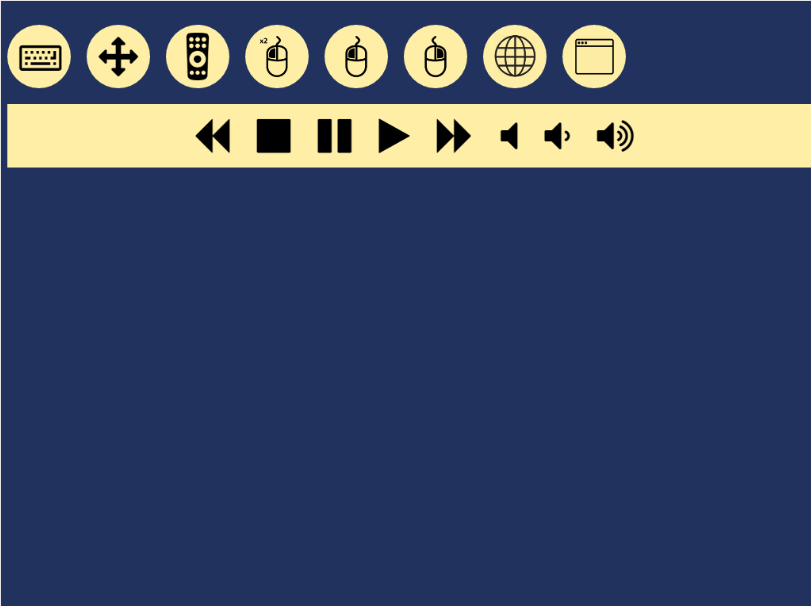
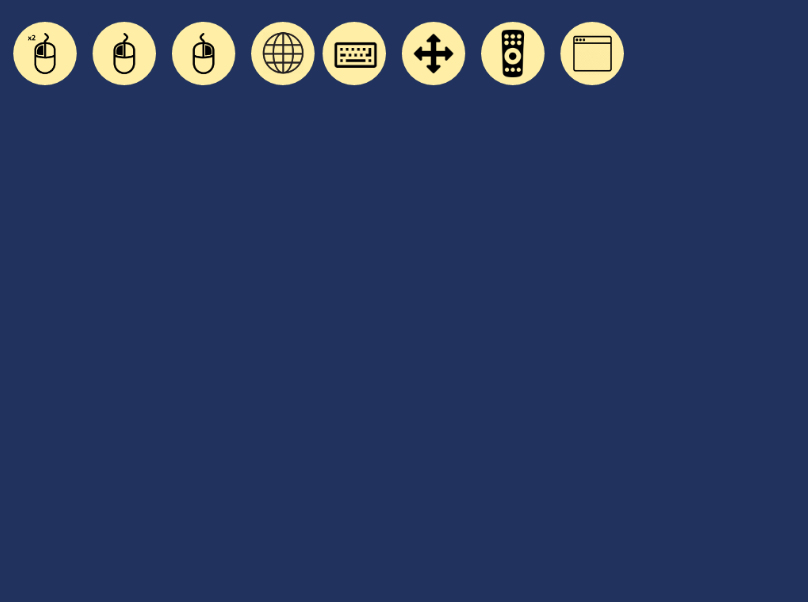
final touches

Changed region(s): [[0.0, 0.0299, 1.0, 0.299]]

diff --git a/app.js b/app.js
@@ -6,7 +6,6 @@ const fs = require('fs');
 
 const configuration = JSON.parse(fs.readFileSync('configuration.json', 'utf8'));
 
-/* Configuration */
 const port = configuration.port;
 const browserPath = configuration.browserPath;
 
@@ -17,10 +16,7 @@ const keyboard = require('./keyboard');
 const rootPath = 'wepapp/';
 const imgPath = 'img/';
 
-
 const stripFileName = (path, fileDirectory) => {
-
-    console.log(path);
 
     var splitted = path.split('/');
     var filepath = rootPath + (fileDirectory || '') + splitted[splitted.length - 1]; // to prevent relative path
@@ -35,25 +31,47 @@ const launchApp = (command, args) => {
     spawn(command, args);
 };
 
+const logAction = (action) => {
+    
+    if (configuration.logActions) {
+        console.log(action);
+    }
+};
+
+const logRequests = (req) => {
+
+    if (configuration.logRequests) {
+        console.log(req);
+    }
+};
+
+const sendFileOptions = { root: __dirname + '/' };
+
+console.log(JSON.stringify(configuration) + '\n');
+
 app.get('/', function (req, res) {
-    console.log(req.path);
-    res.sendfile(rootPath + 'index.html');
+    logRequests(req.path);
+    res.sendFile(rootPath + 'index.html', sendFileOptions);
 });
 
-app.get('/node_modules/angular/angular.js', function(req, res) {
-    res.sendfile('node_modules/angular/angular.js');
+app.get('/node_modules/angular/angular.js', function (req, res) {
+    logRequests(req.path);
+    res.sendFile('node_modules/angular/angular.js', sendFileOptions);
 });
 
 app.get('/*.js', (req, res) => {
-    res.sendfile(stripFileName(req.path));
+    logRequests(req.path);
+    res.sendFile(stripFileName(req.path), sendFileOptions);
 });
 
 app.get('/*.css', function (req, res) {
-    res.sendfile(stripFileName(req.path));
+    logRequests(req.path);
+    res.sendFile(stripFileName(req.path), sendFileOptions);
 });
 
 app.get('/img/*.png', function (req, res) {
-    res.sendfile(stripFileName(req.path, imgPath));
+    logRequests(req.path);
+    res.sendFile(stripFileName(req.path, imgPath), sendFileOptions);
 });
 
 io.on('connection', (socket) => {
@@ -61,35 +79,55 @@ io.on('connection', (socket) => {
     console.log('client connected');
 
     socket.on('mouseMove', (point) => {
-        console.log(point);
+        logAction(point);
         mouse.moveBy(point.x, point.y);
     });
 
     socket.on('media', (key) => {
-        console.log(key);
+        logAction(key);
         media[key]();
     });
 
     socket.on('keyPress', (key) => {
+        logAction('keyPress');
         keyboard.keyPress(key);
     });
 
-    socket.on('changeLanguageWindows', keyboard.changeLanguageWindows);
+    socket.on('changeLanguageWindows', () => {
 
-    socket.on('mouseClick', mouse.click);
-    socket.on('mouseDoubleClick', mouse.doubleClick);
-    socket.on('mouseRightClick', mouse.rightClick);
+        logAction('changeLanguageWindows');
+        keyboard.changeLanguageWindows();
+    });
+
+    socket.on('mouseClick', () => {
+
+        logAction('mouseClick');
+        mouse.click();
+    });
+
+    socket.on('mouseDoubleClick', () => {
+
+        logAction('mouseDoubleClick');
+        mouse.doubleClick();
+    });
+
+    socket.on('mouseRightClick', () => {
+
+        logAction('mouseRightClick');
+        mouse.rightClick();
+    });
 
     socket.on('kodi', () => {
         launchApp('C:/Program Files (x86)/Kodi/Kodi.exe');
     });
 
     socket.on('youtube', () => {
-        console.log('youtube');
+        logAction('youtube');
         launchApp(browserPath, 'http://youtube.com');
     });
 
     socket.on('ynet', () => {
+        logAction('ynet');
         launchApp(browserPath, 'http://ynet.co.il');
     });
 });

diff --git a/wepapp/index.html b/wepapp/index.html
@@ -13,6 +13,18 @@
     <div>
         <textarea id="keyboard-input"  onkeyup="onKeyUp(event);" rows="4"></textarea>
         <div class="row">
+            <div class="pull-left fab-icon inline yellow">
+                <img src="img/doubleMouse.png" alt="" class="img-icon" onclick="emit(event, 'mouseDoubleClick')" />
+            </div>
+            <div class="pull-left fab-icon inline yellow">
+                <img src="img/leftMouse.png" alt="" class="img-icon" onclick="emit(event, 'mouseClick')" />
+            </div>
+            <div class="pull-left fab-icon inline yellow">
+                <img src="img/rightMouse.png" alt="" class="img-icon" onclick="emit(event, 'mouseRightClick')" />
+            </div>
+            <div class="pull-left fab-icon inline yellow">
+                <img src="img/language.png" alt="" class="img-icon" onclick="emit(event, 'changeLanguageWindows')" />
+            </div>
             <div class="no-margin pull-left fab-icon inline yellow small-right">
                 <i class="fa fa-keyboard-o" onclick="keyboardClick(event)"></i>
             </div>
@@ -23,20 +35,9 @@
                 <img src="img/remoteControl.png" alt="" class="img-icon" />
             </div>
             <div class="pull-left fab-icon inline yellow">
-                <img src="img/doubleMouse.png" alt="" class="img-icon" onclick="emit(event, 'mouseDoubleClick')" />
+                <img src="img/app.png" alt="" class="img-icon" ng-click="app=!app;media=false;arrows=false;"/>
             </div>
-            <div class="pull-left fab-icon inline yellow">
-                <img src="img/leftMouse.png" alt="" class="img-icon" onclick="emit(event, 'mouseClick')"/>
-            </div>
-            <div class="pull-left fab-icon inline yellow">
-                <img src="img/rightMouse.png" alt="" class="img-icon" onclick="emit(event, 'mouseRightClick')" />
-            </div>
-            <div class="pull-left fab-icon inline yellow">
-                <img src="img/language.png" alt="" class="img-icon" onclick="emit(event, 'changeLanguageWindows')" />
-            </div>
-            <div class="pull-left fab-icon inline yellow">
-                <img src="img/app.png" alt="" class="img-icon"  ng-click="app=!app;media=false;arrows=false;" />
-            </div>
+            <div style="clear:both"></div>
         </div>
         <div class="row">
             <div class="background yellow" ng-class="{ open: media}">

diff --git a/wepapp/index.js b/wepapp/index.js
@@ -1,8 +1,17 @@
+var options = {
+    showActions: false
+};
 
-window.lastPoint = { x: null, y: null };
-window.socket = io.connect('/');
-window.isKeyboardOpen = false;
-window.keyboardInput = document.getElementById('keyboard-input');
+var lastPoint = { x: null, y: null };
+var socket = io.connect('/');
+var isKeyboardOpen = false;
+var keyboardInput = document.getElementById('keyboard-input');
+var x = document.getElementById('x');
+var y = document.getElementById('y');
+
+if (!options.showActions) {
+    y.style.display = x.style.display = 'none';
+}
 
 socket.on('connect', function () {
     console.log('connected');
@@ -12,12 +21,9 @@ socket.on('disconnect', function () {
     console.log('disconnect');
 });
 
-var x = document.getElementById('x');
-var y = document.getElementById('y');
-
 function touchend() {
-    window.lastPoint.x = 0;
-    window.lastPoint.y = 0;
+    lastPoint.x = 0;
+    lastPoint.y = 0;
 }
 
 function moveMouseDelta(e) {
@@ -31,7 +37,6 @@ function moveMouseDelta(e) {
 
         if (lastPoint.x && lastPoint.y) {
             socket.emit('mouseMove', { x: xDelta, y: yDelta });
-            console.log(xDelta, yDelta);
         }
 
         window.lastPoint.x = e.changedTouches[0].pageX;
@@ -95,7 +100,7 @@ function keyboardClick(e) {
 }
 
 function continuesMediaKey(e, key) {
-    window.interval = setInterval(function() {
+    window.interval = setInterval(function () {
         socket.emit('media', key);
     }, 70);
 }

diff --git a/wepapp/style.css b/wepapp/style.css
@@ -28,7 +28,7 @@ body {
 
 .fab-icon.inline {
     position: static;
-    margin: 0 10px;
+    margin: 0 10px 10px 10px;
 }
 
 i {

diff --git a/readme.md b/readme.md
@@ -5,13 +5,14 @@
 Simple node.js based website to control your media center. Includes arrow keys, media controls, keyboard (device native keyboard), applications launching and mouse control.
 
 ### Installation
-Install node.js and npm is required. I've developed against node v4.4.7, npm v2.15.8. To check your installed version execute:
+node.js and npm is required. I've developed against node v4.4.7, npm v2.15.8. To check your installed version execute:
 
 <code>node -v</code>
 
 <code>npm -v</code>
 
-Download the zip, extract and then go to project directory get all dependencies using:
+Download the zip, extract and navigate to project's directory to get all dependencies using:
+
 <code>npm install</code>
 
 ### Execution
@@ -22,3 +23,7 @@ configuration.json contains application configuration.
 
 * port - Website's port
 * browserPath - Path to browser executable
+* logActions - print actions from client to console
+* logRequests - print url requests to console
+
+webapp/index.js has options object at line:1. set show actions to true to show actions at window's left bottom corner.
